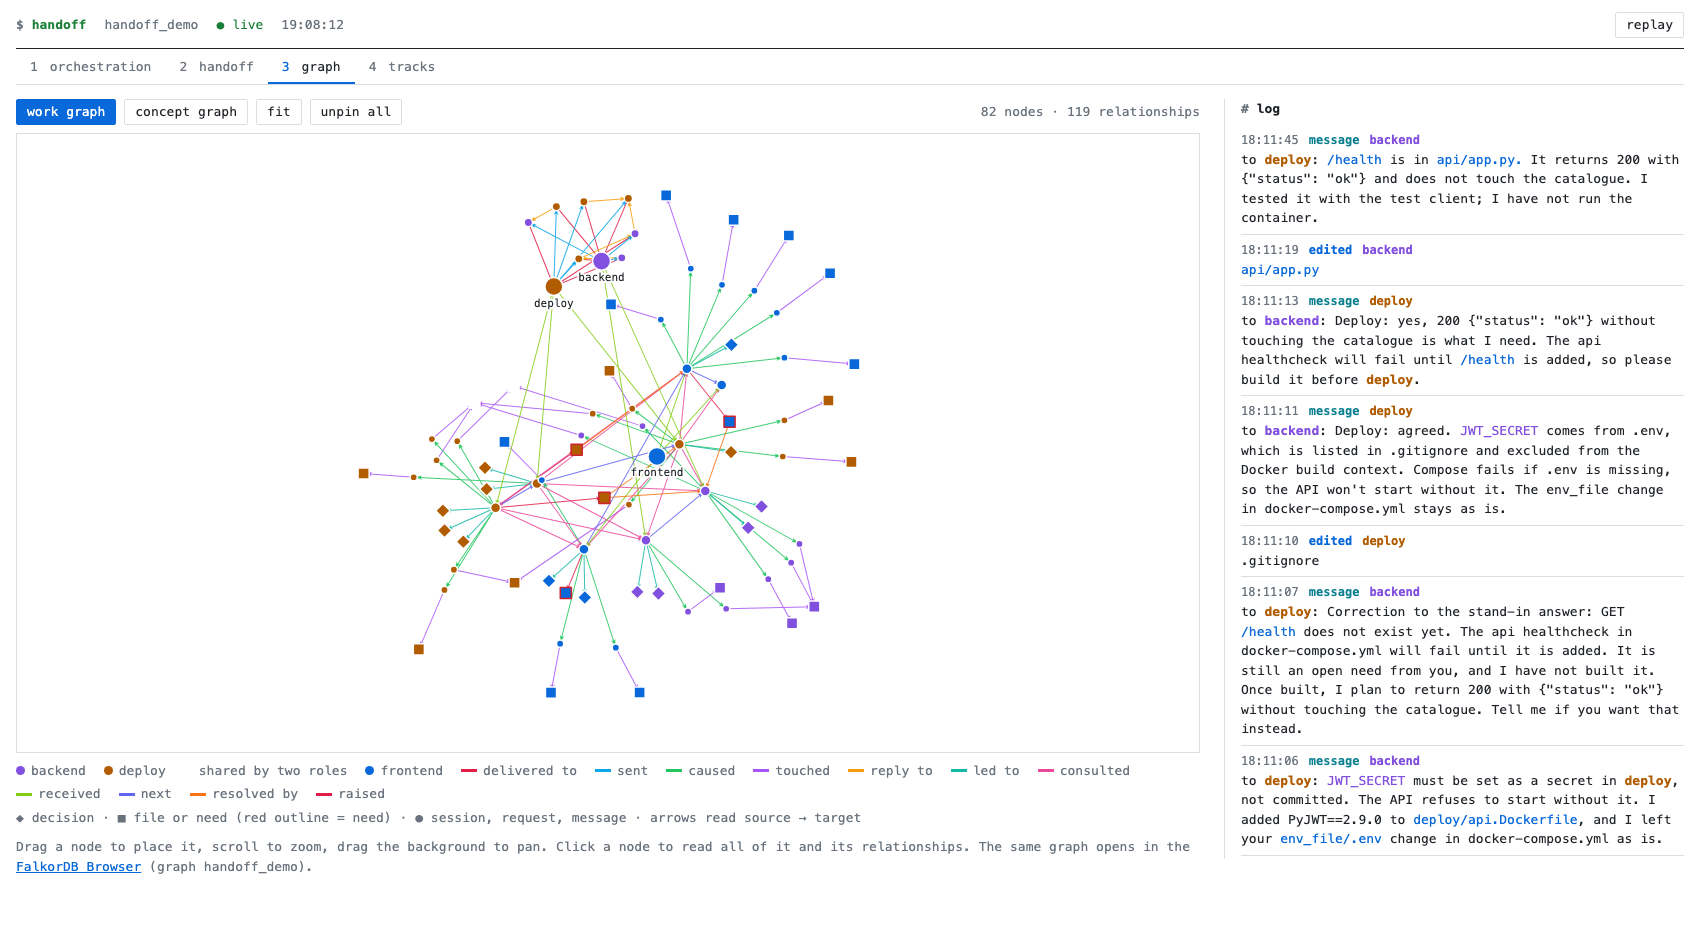
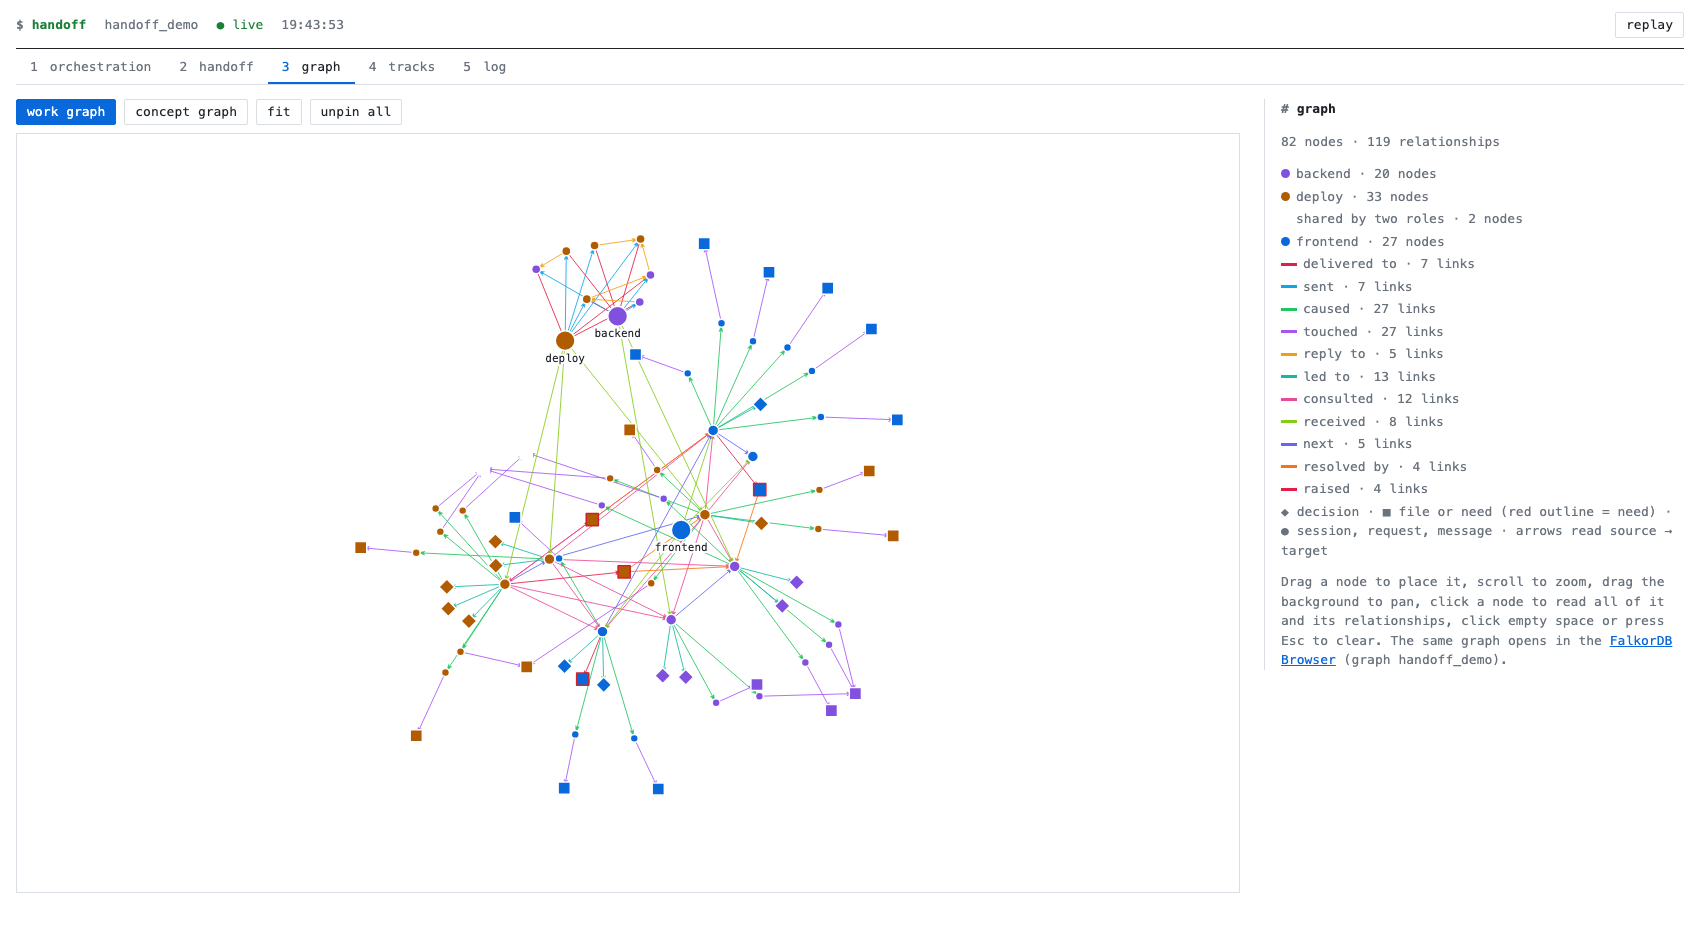
feat(dashboard): the log gets its own page; the graph page shows what the graph is made of

diff --git a/src/handoff/dashboard/static/index.html b/src/handoff/dashboard/static/index.html
@@ -19,6 +19,7 @@
   <button type="button" data-view="handoff"><kbd>2</kbd> handoff</button>
   <button type="button" data-view="graph"><kbd>3</kbd> graph</button>
   <button type="button" data-view="tracks"><kbd>4</kbd> tracks</button>
+  <button type="button" data-view="log"><kbd>5</kbd> log</button>
 </nav>
 <div class="layout">
   <main>
@@ -33,30 +34,39 @@
       <div id="handoff"></div>
     </section>
     <section id="view-graph" class="view" hidden>
-      <div class="graph-bar">
-        <button type="button" data-mode="work" aria-pressed="true">work graph</button>
-        <button type="button" data-mode="concepts" aria-pressed="false">concept graph</button>
-        <button type="button" id="graph-fit">fit</button>
-        <button type="button" id="graph-unpin">unpin all</button>
-        <span id="graph-count" class="dim"></span>
+      <div class="graph-layout">
+        <div class="graph-main">
+          <div class="graph-bar">
+            <button type="button" data-mode="work" aria-pressed="true">work graph</button>
+            <button type="button" data-mode="concepts" aria-pressed="false">concept graph</button>
+            <button type="button" id="graph-fit">fit</button>
+            <button type="button" id="graph-unpin">unpin all</button>
+          </div>
+          <div class="canvas-wrap">
+            <div id="graph" role="img" aria-label="The shared graph, drawn live"></div>
+            <div id="tip" class="tip" hidden></div>
+          </div>
+        </div>
+        <aside class="graph-side">
+          <h2>graph</h2>
+          <p id="graph-count" class="dim"></p>
+          <div id="legend" class="legend"></div>
+          <div id="detail" class="detail" hidden></div>
+          <p class="hint">Drag a node to place it, scroll to zoom, drag the background to pan, click a node to read
+            all of it and its relationships, click empty space or press Esc to clear. The same graph opens in the
+            <a href="http://localhost:3000" target="_blank" rel="noopener">FalkorDB Browser</a>
+            (graph <span id="graph-ref"></span>).</p>
+        </aside>
       </div>
-      <div class="canvas-wrap">
-        <div id="graph" role="img" aria-label="The shared graph, drawn live"></div>
-        <div id="tip" class="tip" hidden></div>
-      </div>
-      <div id="legend" class="legend"></div>
-      <div id="detail" class="detail" hidden></div>
-      <p class="hint">Drag a node to place it, scroll to zoom, drag the background to pan. Click a node to read all of it and its relationships. The same graph opens in the
-        <a href="http://localhost:3000" target="_blank" rel="noopener">FalkorDB Browser</a> (graph <span id="graph-ref"></span>).</p>
     </section>
     <section id="view-tracks" class="view" hidden>
       <div id="tracks"></div>
     </section>
+    <section id="view-log" class="view" hidden>
+      <h2>everything that lands in the graph, newest first</h2>
+      <ol id="ticker"></ol>
+    </section>
   </main>
-  <aside class="feed">
-    <h2>log</h2>
-    <ol id="ticker"></ol>
-  </aside>
 </div>
 <script src="/common.js"></script>
 <script src="/critter.js"></script>

diff --git a/src/handoff/dashboard/static/style.css b/src/handoff/dashboard/static/style.css
@@ -36,23 +36,20 @@ kbd { font: inherit; color: var(--dim); margin-right: 4px; }
 .tabs button { border: 0; border-bottom: 2px solid transparent; border-radius: 0; padding: 8px 14px 6px; white-space: nowrap; color: var(--dim); }
 .tabs button[aria-current="true"] { color: var(--ink); border-bottom-color: var(--blue); }
 .tabs button[aria-current="true"] kbd { color: var(--blue); }
-.layout { display: grid; grid-template-columns: minmax(0, 1fr) 460px; gap: 24px; align-items: start; }
-@media (max-width: 1000px) { .layout { grid-template-columns: minmax(0, 1fr); } }
 .view[hidden] { display: none; }
 .view { min-height: 480px; }
 .hint { color: var(--dim); margin: 10px 0 0; }
 #orch { width: 100%; height: auto; display: block; }
 h2, h3 { font-size: 13px; font-weight: 700; margin: 0 0 6px; }
 h2::before, h3::before { content: "# "; color: var(--dim); }
-/* stays in view while the page scrolls, so the right side is never empty */
-.feed { border-left: 1px solid var(--line); padding-left: 16px; position: sticky; top: 8px; height: calc(100vh - 24px); overflow: auto; }
 #ticker { list-style: none; margin: 0; padding: 0; }
-#ticker li { padding: 6px 0; border-bottom: 1px solid var(--line); overflow-wrap: anywhere; }
-#ticker .meta { display: flex; gap: 10px; font-size: 12px; }
+#ticker li { padding: 7px 0; border-bottom: 1px solid var(--line); overflow-wrap: anywhere; display: grid; grid-template-columns: 9ch 11ch 10ch minmax(0, 1fr); gap: 0 14px; }
+#ticker .meta { display: contents; }
+@media (max-width: 800px) { #ticker li { grid-template-columns: 9ch 1fr; } #ticker .text { grid-column: 1 / -1; } }
 #ticker .t { color: var(--dim); }
 #ticker .kind { font-weight: 700; text-transform: lowercase; }
 #ticker .who { font-weight: 700; }
-#ticker .text { display: block; margin-top: 1px; white-space: pre-wrap; }
+#ticker .text { white-space: pre-wrap; }
 #ticker li.fresh { animation: blink 1.2s steps(2) 2; }
 @keyframes blink { 50% { background: var(--soft); } }
 /* orchestration */
@@ -144,3 +141,11 @@ h2::before, h3::before { content: "# "; color: var(--dim); }
 .detail .rel { color: var(--amber); font-weight: 700; } .detail .kind { color: var(--dim); }
 a { color: var(--blue); }
 .legend span.line::before { width: 16px; height: 3px; border-radius: 0; vertical-align: middle; }
+
+/* graph: the canvas beside a panel of everything the graph is made of */
+.graph-layout { display: grid; grid-template-columns: minmax(0, 1fr) 420px; gap: 24px; align-items: start; }
+@media (max-width: 1000px) { .graph-layout { grid-template-columns: minmax(0, 1fr); } }
+.graph-side { position: sticky; top: 8px; max-height: calc(100vh - 24px); overflow: auto; border-left: 1px solid var(--line); padding-left: 16px; }
+.graph-side .legend { flex-direction: column; margin: 0 0 12px; gap: 3px; }
+.graph-side .detail { margin-top: 0; }
+.canvas-wrap { height: calc(100vh - 190px); min-height: 460px; }

diff --git a/src/handoff/dashboard/static/graphview.js b/src/handoff/dashboard/static/graphview.js
@@ -96,12 +96,13 @@
 
   function drawLegend() {
     MC.clear(legend); var seen = {};
-    Object.keys(nodes).forEach(function (k) { var n = nodes[k]; seen[n.role || n.kind] = fill(n); });
+    var total = {};
+    Object.keys(nodes).forEach(function (k) { var n = nodes[k], key = n.role || n.kind; seen[key] = fill(n); total[key] = (total[key] || 0) + 1; });
     Object.keys(seen).forEach(function (label) {
-      var s = MC.el("span", {}, label === "shared" ? "shared by two roles" : label); s.style.setProperty("--c", seen[label]); legend.appendChild(s);
+      var s = MC.el("span", {}, (label === "shared" ? "shared by two roles" : label) + " · " + total[label] + (mode === "work" ? " nodes" : "")); s.style.setProperty("--c", seen[label]); legend.appendChild(s);
     });
-    var kinds = {}; plain.forEach(function (e) { kinds[e.kind] = true; });
-    Object.keys(kinds).forEach(function (k) { var t = MC.el("span", { "class": "line" }, k.toLowerCase().replace("_", " ")); t.style.setProperty("--c", edgeColour(k)); legend.appendChild(t); });
+    var kinds = {}; plain.forEach(function (e) { kinds[e.kind] = (kinds[e.kind] || 0) + 1; });
+    Object.keys(kinds).forEach(function (k) { var t = MC.el("span", { "class": "line" }, k.toLowerCase().replace("_", " ") + " · " + kinds[k] + " links"); t.style.setProperty("--c", edgeColour(k)); legend.appendChild(t); });
     if (mode === "work") legend.appendChild(MC.el("span", { "class": "plain" }, "◆ decision · ■ file or need (red outline = need) · ● session, request, message · arrows read source → target"));
   }
 

diff --git a/src/handoff/dashboard/static/app.js b/src/handoff/dashboard/static/app.js
@@ -2,13 +2,14 @@
 (function () {
   "use strict";
   var MC = window.MC, POLL_MS = 1500;
+  var VIEWS = ["orchestration", "handoff", "graph", "tracks", "log"];
   var seenEvents = null, state = null, current = "orchestration";
   var ticker = document.getElementById("ticker"), status = document.getElementById("status");
 
   function setView(name) {
     current = name;
     document.querySelectorAll(".tabs button").forEach(function (b) { b.setAttribute("aria-current", String(b.getAttribute("data-view") === name)); });
-    ["orchestration", "handoff", "graph", "tracks"].forEach(function (v) { document.getElementById("view-" + v).hidden = v !== name; });
+    VIEWS.forEach(function (v) { document.getElementById("view-" + v).hidden = v !== name; });
     MC.views.graph.setVisible(name === "graph");
     history.replaceState(null, "", "#" + name);
   }
@@ -58,10 +59,10 @@
   });
 
   document.addEventListener("keydown", function (ev) {
-    var names = ["orchestration", "handoff", "graph", "tracks"], i = Number(ev.key) - 1;
+    var names = VIEWS, i = Number(ev.key) - 1;
     if (!ev.metaKey && !ev.ctrlKey && !ev.altKey && i >= 0 && i < names.length) setView(names[i]);
   });
 
-  setView(["orchestration", "handoff", "graph", "tracks"].indexOf(location.hash.slice(1)) >= 0 ? location.hash.slice(1) : current);
+  setView(VIEWS.indexOf(location.hash.slice(1)) >= 0 ? location.hash.slice(1) : current);
   poll();
 })();
